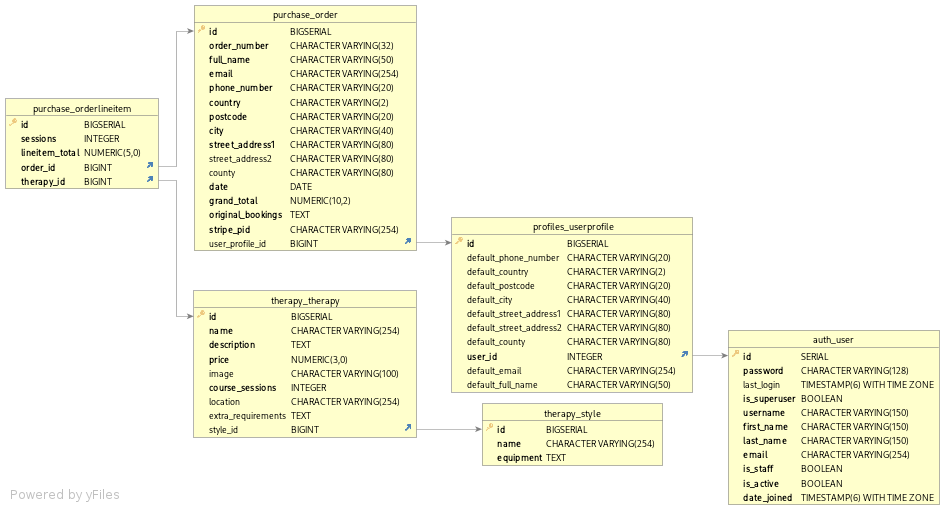
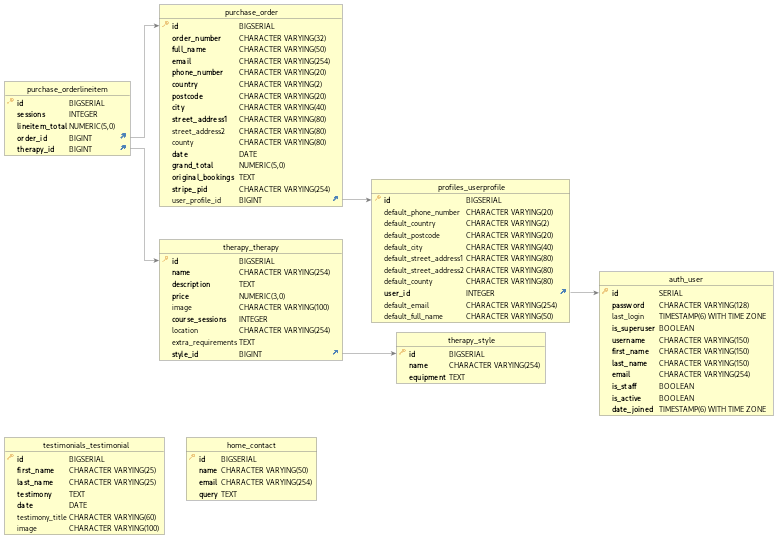
DOC: Update Features in README
Add Testimonial
View Bookings

diff --git a/staticfiles/css/style.css b/staticfiles/css/style.css
@@ -826,6 +826,10 @@ footer {
   line-height: 3.2rem;
 }
 
+.orderHistoryItem {
+  list-style-type: none;
+}
+
 /*===== END  Grid  ===== */
 /*~~~~~~~  404 Page  ~~~~~~~ */
 .errorSection {

diff --git a/sass/layout/_grid.sass b/sass/layout/_grid.sass
@@ -24,4 +24,8 @@
 		text-align: center
 		line-height: 3.2rem
 
+.orderHistoryItem
+	list-style-type: none
+
+
 /*===== END  Grid  =====*/

diff --git a/README.md b/README.md
@@ -705,6 +705,18 @@ On successful purchase the OT4U website will send a confirmation email to the cl
 
 #### View Bookings
 
+Once a client has booked and paid for some therapy sessions, it is vital that Natalia can see those bookings.  This is a key element of reporting for Natalia, without this feature the rest of the website does not provide any value to Natalia.  When she is logged in as the Site Owner she can click on the "My Profile" link and choose "View Bookings".  This will bring up a page showing a list of all the bookings that have been made, the most recent first.
+
+For further information, Natalia can hover over the Client name and their email address will appear.
+
+Supporting pages - **View Bookings**
+
+|  Desktop   |  Mobile   |
+| --- | --- |
+|  ![View Bookings - Desktop](documentation/pages/view-bookings.png)   |  ![View Bookings - mobile](documentation/pages/mobile/view-bookings.png)   |
+
+
+
 #### Back-end database checks
 [Back to Top](#top)
 
@@ -732,11 +744,27 @@ Supporting pages - **View Testimonials**
 
 #### Add Testimonial
 
+This feature allows clients to add their own testimonials to the OT4U website.  The benefit of this feature is that the more client testimonials there are on the site, the more potentials clients will come to believe that this is a service they will want to buy (Social Proof).  
+
+When a client visits the View Testimonials page, they will see an "Add My Testimonial" button if they are logged in.  When they click on this button they are taken to a page where they can add a testimonial and optionally add their own picture.  Having a client's picture next to the testimonial makes it feel more genuine and will make potential clients more likely to trust the testimonial.
+
+Supporting pages - **Add Testimonial**
+
+|  Desktop   |  Mobile   |
+| --- | --- |
+|  ![Add Testimonial - Desktop](documentation/pages/add-testimonial.png)   |  ![Add Testimonial - mobile](documentation/pages/mobile/add-testimonial.png)   |
+
+
 #### View details about Natalia
 [Back to Top](#top)
 
 This feature allows clients and potential clients to view information about Natalia herself.  They will judge whether to book sessions with her based on her experience and attitude.  This feature allows Natalia to sell herself to new clients.
 
+Supporting pages - **About**
+
+|  Desktop   |  Mobile   |
+| --- | --- |
+|  ![About - Desktop](documentation/pages/about.png)   |  ![About - mobile](documentation/pages/mobile/about.png)   |
 
 
 #### Get in Touch
